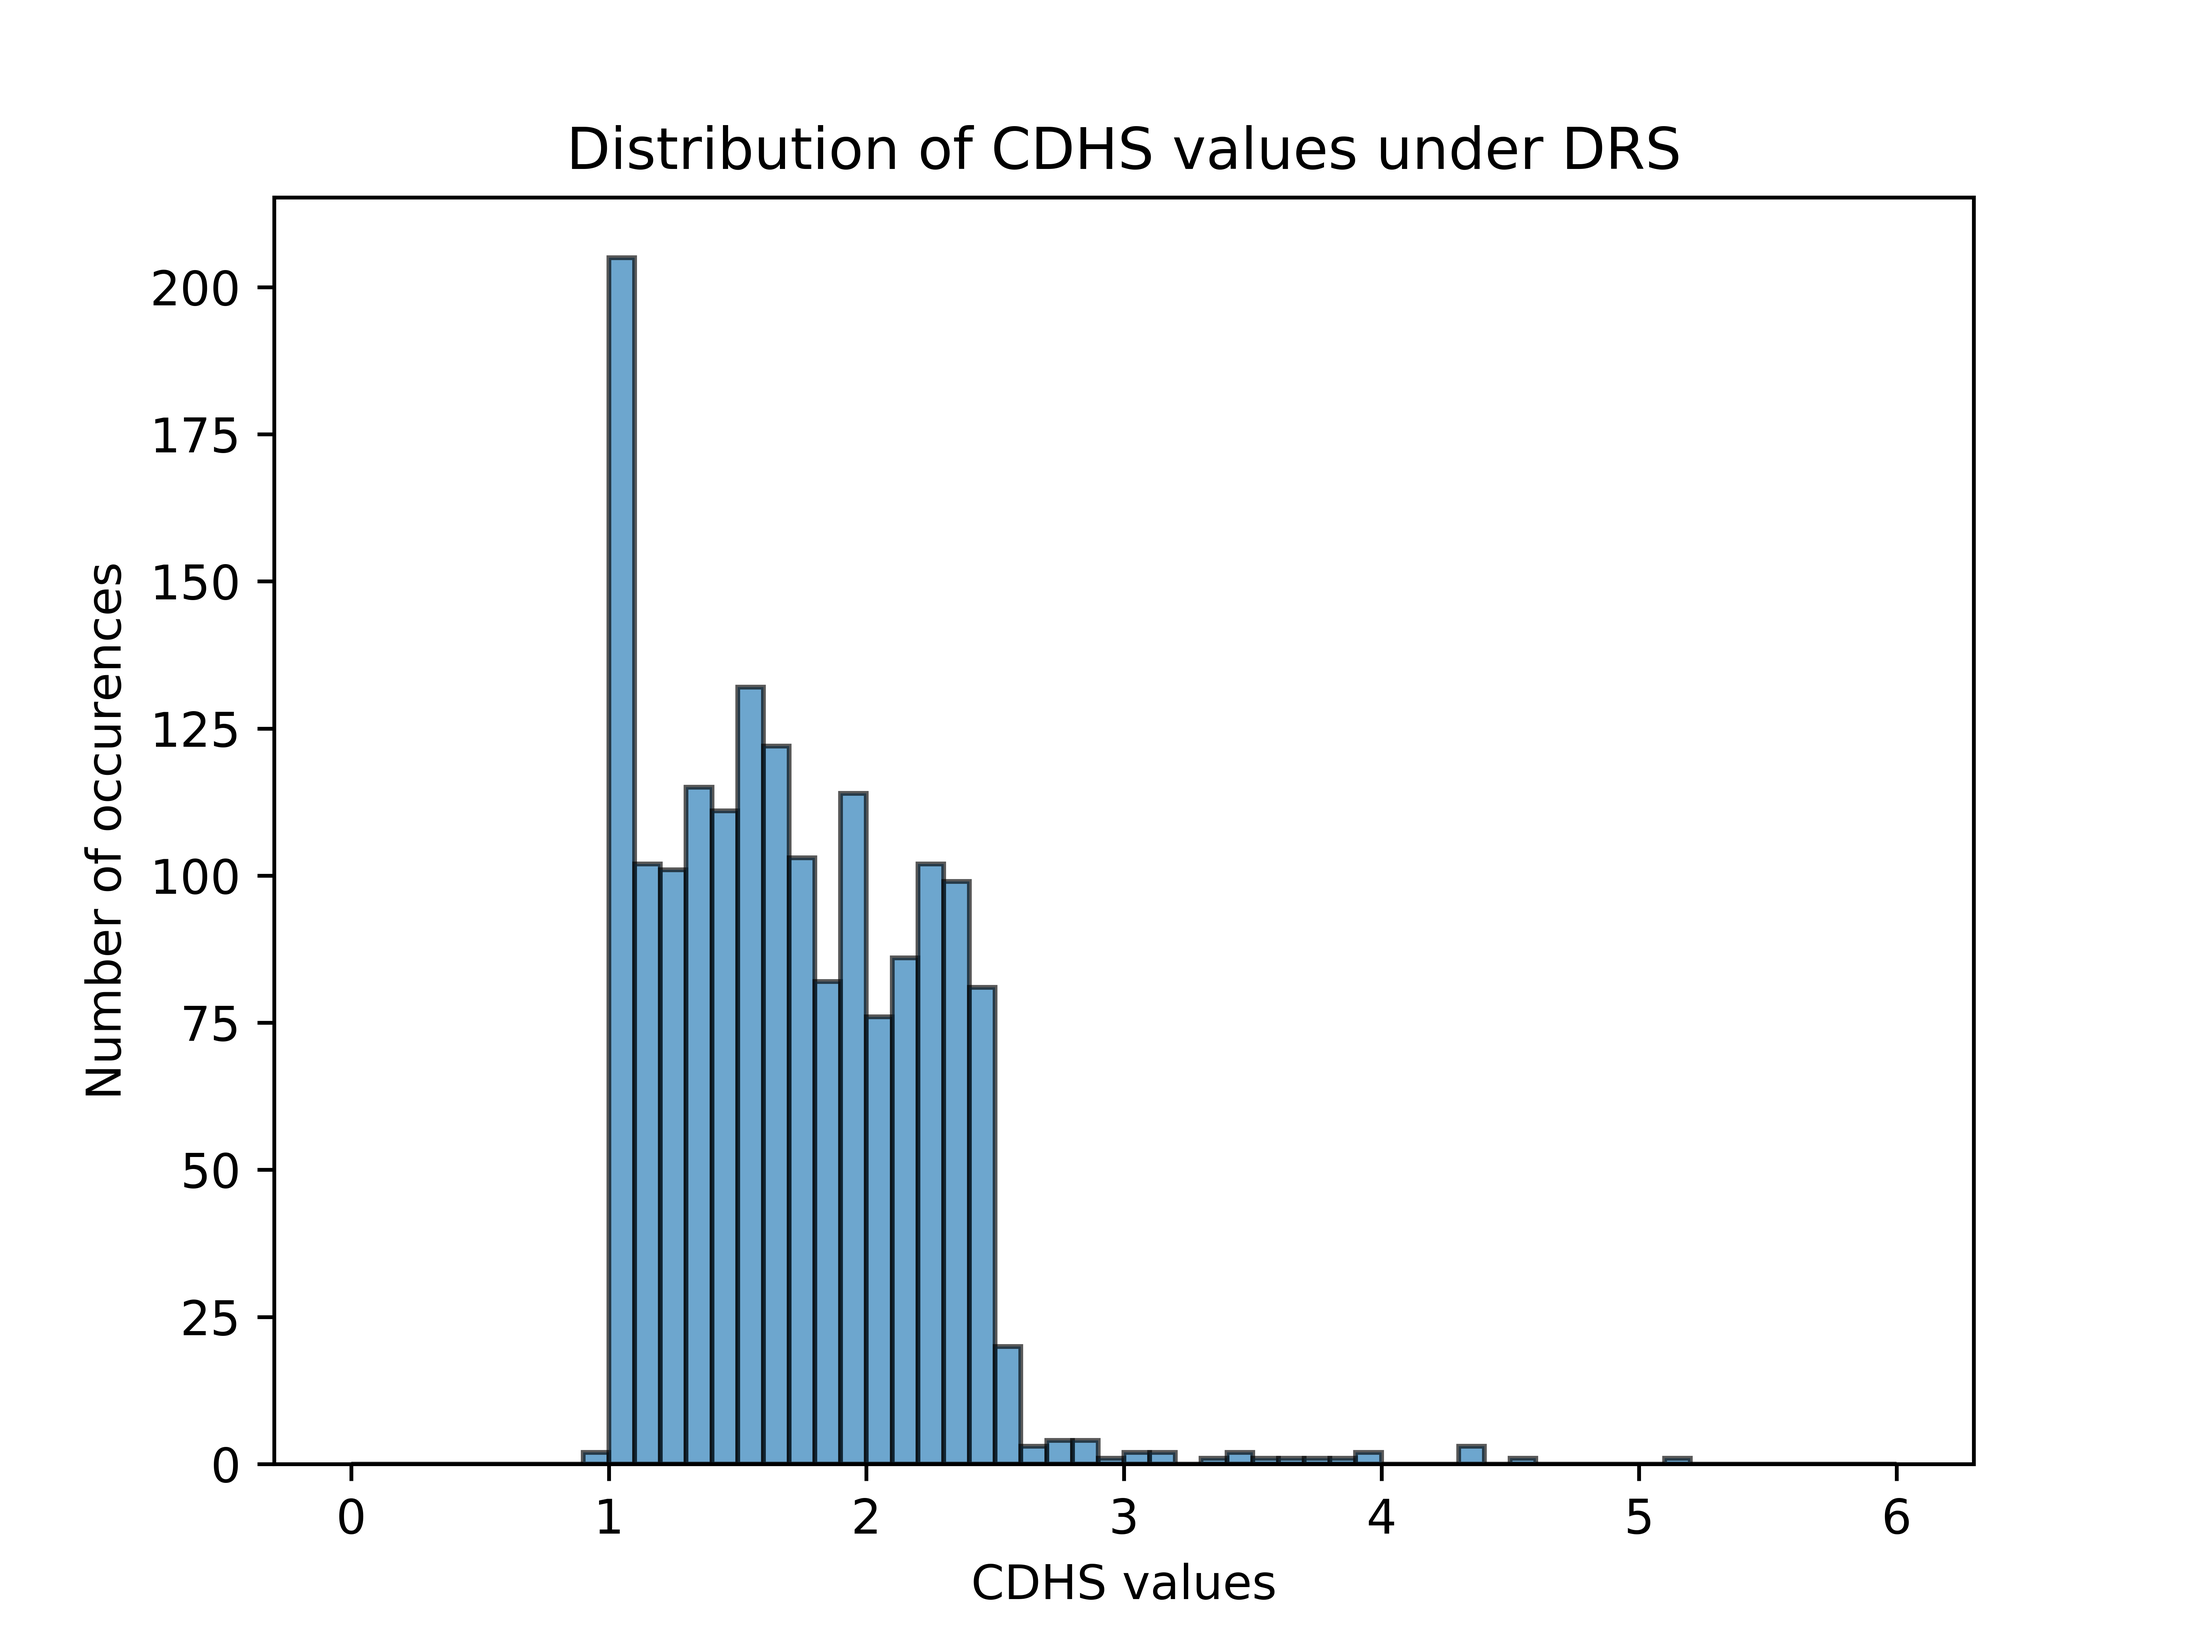
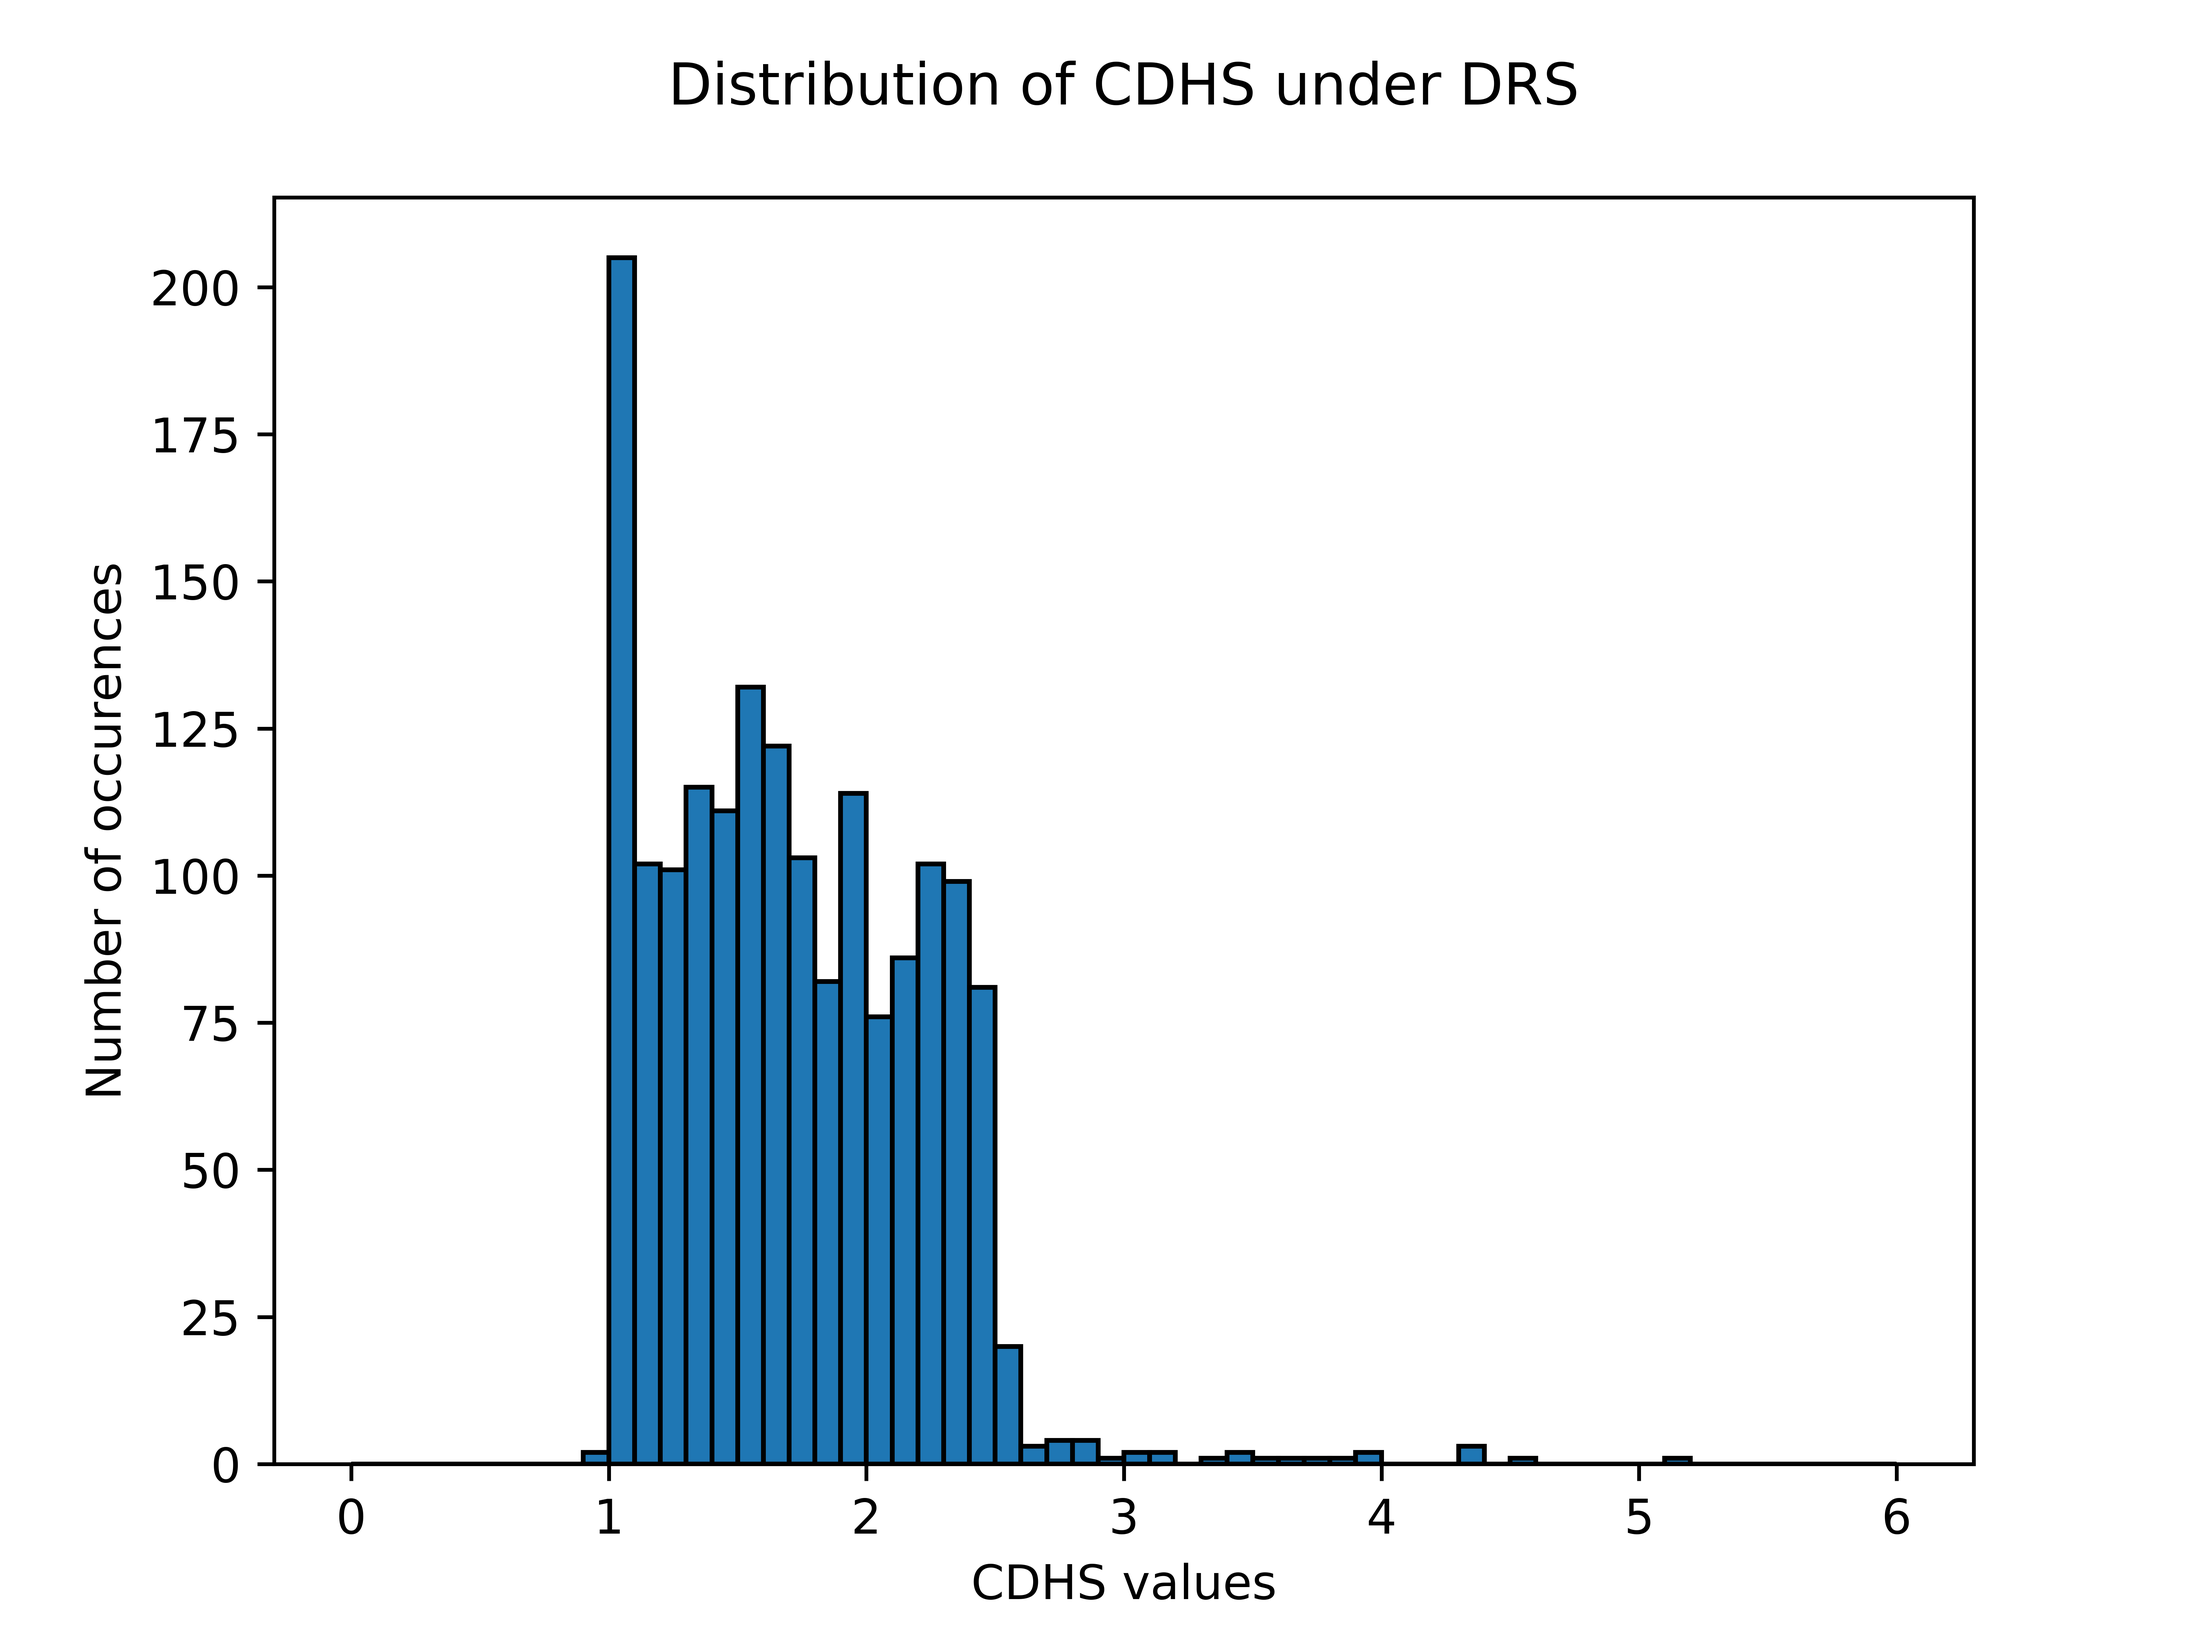
Finished the iterations plots.

Changed region(s): [[0.25, 0.1562, 0.625, 0.9062], [0.25, 0.0312, 0.75, 0.125], [0.6562, 0.875, 0.6875, 0.9062]]

diff --git a/generate_plots.py b/generate_plots.py
@@ -2,9 +2,27 @@
 
 # import matplotlib as mpl
 from matplotlib import pyplot as plt
-import numpy as np
-from os import path
 import pandas as pd
+import sys
+
+
+help_text = """
+USAGE: ./generate_plots.py [-h] [--help] [-n] [--nodisplay] [-s] [--save]
+                           [--type <plotname>]
+Generate the CDHS and CEESA plots for estimated values in results.
+
+OPTIONAL ARGUMENTS:
+    -h --help
+        Display this help message.
+    -n --nodisplay
+        Do not display plots.
+    -s --save
+        Save plots to file.
+    --type <plottype>
+        Construct plots only for the specified type. <plottype> could be either
+        'dist' or 'iter'.
+"""
+invalid = 'Invalid usage.\n' + help_text
 
 
 scores = {
@@ -20,14 +38,71 @@ scores = {
 
 
 # Score distributions.
-for sc in scores:
-    for cn, res in scores[sc].items():
-        dists = plt.hist(res[sc], bins=60, range=(0, 6),
-                         alpha=.65, edgecolor='k')
-        plt.title('Distribution of {0} values under {1}'.format(sc, cn))
-        plt.xlabel('{0} values'.format(sc))
-        plt.ylabel('Number of occurences')
-        plt.savefig(path.join(
-                'plots', '{0}_{1}.png'.format(sc.lower(), cn.lower())),
-                 dpi=1000)
-        plt.show()
+def plot_score_distributions(scores, display=True, save=False):
+    for sc in scores:
+        for cn, res in scores[sc].items():
+            print('Plotting %s-%s distribution.' % (sc, cn))
+            plt.hist(res[sc], bins=60, range=(0, 6), edgecolor='k')
+            plt.title('Distribution of %s under %s\n' % (sc, cn))
+            plt.xlabel('{0} values'.format(sc))
+            plt.ylabel('Number of occurences')
+            if save:
+                sl, cn = sc.lower(), cn.lower()
+                plt.savefig('plots/' + sl + '_' + cn + '.png', dpi=1000)
+            plt.show() if display else plt.close()
+
+
+# Iterations distributions.
+def plot_iter_distributions(scores, display=True, save=False):
+    params = dict(bins=25, histtype='step', linewidth=2)
+    title = 'Distribution of Iterations to Maxima for {} under {}\n'
+    for sc in scores:
+        for cn, res in scores[sc].items():
+            print('Plotting %s-%s iterations.' % (sc, cn))
+            if sc == 'CDHS':
+                plt.hist(res['Inn'], **params)
+                plt.hist(res['Sur'], **params)
+            elif sc == 'CEESA':
+                plt.hist(res['Iter'], **params)
+            plt.title(title.format(sc, cn))
+            plt.xlabel('Iterations')
+            plt.ylabel('Number of occurences')
+            if save:
+                sl, cn = sc.lower(), cn.lower()
+                plt.savefig('plots/Iter_' + sl + '_' + cn + '.png', dpi=1000)
+            plt.show() if display else plt.close()
+
+
+if __name__ == '__main__':
+    args = sys.argv[1:]
+    disp = False
+    save = False
+    plots = []
+    try:
+        while args:
+            arg = args.pop(0)
+            if arg in ['-d', '--display']:
+                disp = True
+            elif arg in ['-s', '--save']:
+                save = True
+            elif arg in ['-h', '--help']:
+                print(help_text)
+                sys.exit(0)
+            elif arg == '--type':
+                ptype = args.pop(0)
+                if ptype == 'dist':
+                    plots.append(plot_score_distributions)
+                elif ptype == 'iter':
+                    plots.append(plot_iter_distributions)
+            else:
+                print(invalid)
+                sys.exit(-1)
+    except IndexError:
+        print(invalid)
+        sys.exit(-1)
+
+    if not plots:
+        plots = [plot_score_distributions, plot_iter_distributions]
+
+    for p in plots:
+        p(scores, disp, save)

diff --git a/generate_values.py b/generate_values.py
@@ -20,13 +20,13 @@ pso_params = {
 
 # Help text for the script.
 help_text = """
-USAGE: ./generate_values.py [-h] [--help] [-v] [--verbose] [--debug]
+USAGE: ./generate_values.py [-h] [--help] [-q] [--quiet] [--debug <it>]
                             [--score <scorename>]
                             [--multiple <param> <start> <stop> [<step>]]
 Generate the CDHS and CEESA score for exoplanets from the PHL-EC dataset.
 
 OPTIONAL ARGUMENTS:
-    --help
+    -h --help
         Display this help message.
     --score <scorename>
         Generate score only for <scorename>. Can be either "cdhs" or "ceesa".
@@ -35,9 +35,11 @@ OPTIONAL ARGUMENTS:
         specified by <param> from <start> to <stop> by <step>. <step> is 1 by
         default. <param> may be "npart", "friction", "learnrate1", "learnrate2"
         or "max_velocity".
-    --debug
-        Run everything on only 10 random exoplanets. (Could include nan that
-        will be removed.)
+    --debug <it>
+        Run everything on <it> random exoplanets. (Could include nan that will
+        be removed.)
+    -q --quiet
+        If specified, nothing will be printed to STDOUT.
 """
 
 evaluate = {
@@ -49,7 +51,7 @@ evaluate = {
 # Handle arguments.
 args = sys.argv[1:]
 single = True
-verbose = False
+verbose = True
 invalid = 'Invalid usage.\n' + help_text
 debug = ''
 
@@ -85,8 +87,8 @@ try:
             sys.exit(0)
 
         # --verbose or -v
-        elif argname in ['--verbose', '-v']:
-            verbose = True
+        elif argname in ['--quiet', '-q']:
+            verbose = False
 
         # --debug
         elif argname == '--debug':
